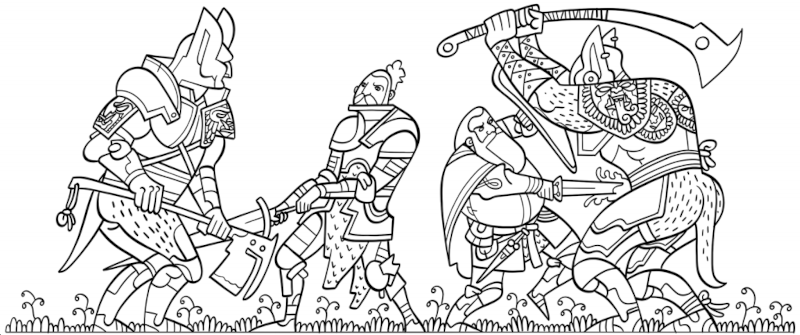
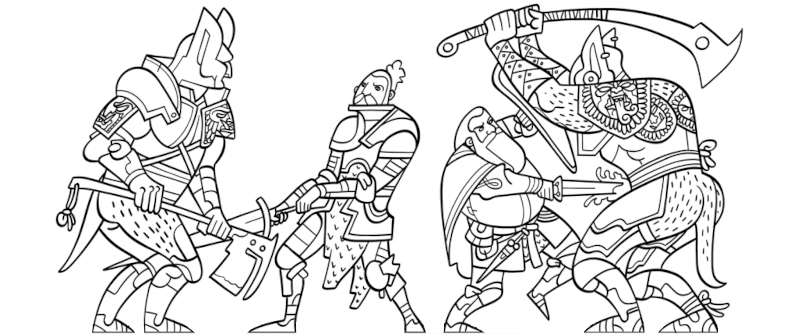
Remove the grass

diff --git a/posts/20210514.md b/posts/20210514.md
@@ -4,7 +4,7 @@ twitter_image: 'images/20210514_gnb_square.jpg'
 tags: [ 'game' ]
 ---
 
-## Gallant And bold
+## Gallant And Bold
 
 <!--
 https://www.drivethrurpg.com/product/316192/Gallant--Bold?affiliate_id=2746229
@@ -221,18 +221,18 @@ The [second companion](https://www.lulu.com/en/us/shop/john-gr%C3%BCmph/coeurs-v
 * a set of 11 tables to generate a _Taberge_ (_Taverne_ + _Auberge_, an inn)
 * a set of 10 tables to generate a ruin
 
-In October 2020, John Grümph released a Patreon-only 87 page supplement porting Earthdawn to Gallant & Bold. I know nothing about Earthdawn, but this supplement contains interesting mechanisms and monsters.
+In October 2020, John Grümph released a Patreon-only 87 page supplement porting Earthdawn to Gallant & Bold. I don't know anything about Earthdawn, but this supplement contains interesting mechanisms and monsters.
 
 Last week (May 9 2021), John released another Patreon-only 28 page supplement detailed how to play Argosia fey. It lists new spells and magical objects and explains how the faery world might differ from the everyday world.
 
 
-<figure class="left smaller noborder">
+<h2 id="conclusion">Conclusion</h2>
+
+<figure class="right smaller noborder">
 <img src="images/20210514_smoker.jpg" loading="lazy" />
 <figcaption>
 </figcaption>
 </figure>
-
-<h2 id="conclusion">Conclusion</h2>
 
 I like:
 
@@ -248,7 +248,7 @@ I do not like:
 
 * the thief might be the only expert, others have to wait and/or pay to enhance their craft and their craft bonuses (maybe I should put that under _like_)
 * this fear that the author might run away and create yet another system. Oh well, we all do this, but at our lower level, with our DIY rule patches...
-* Argosia, the setting is minimal, no maps, no cities, feels just a background to draw in a specific selection of monsters, I would prefere it to be firmly setting-agnostic
+* Argosia, the setting is minimal, no maps, no cities, feels just a background to draw in a specific selection of monsters, I would prefer it to be firmly setting-agnostic
 
 I do wonder if John Grümph uses Gallant & Bold to play in the World of Hârn, after all he translated to French the [introductory volume](https://www.lulu.com/en/us/shop/john-gr%C3%BCmph/h%C3%A2rn-le-monde-de-h%C3%A2rn/ebook/product-1kkwpy69.html) to this very interesting setting (see also [Egg Laying Orcs](20201224.html?t=Egg_Laying_Orcs&f=gallant)).
 
